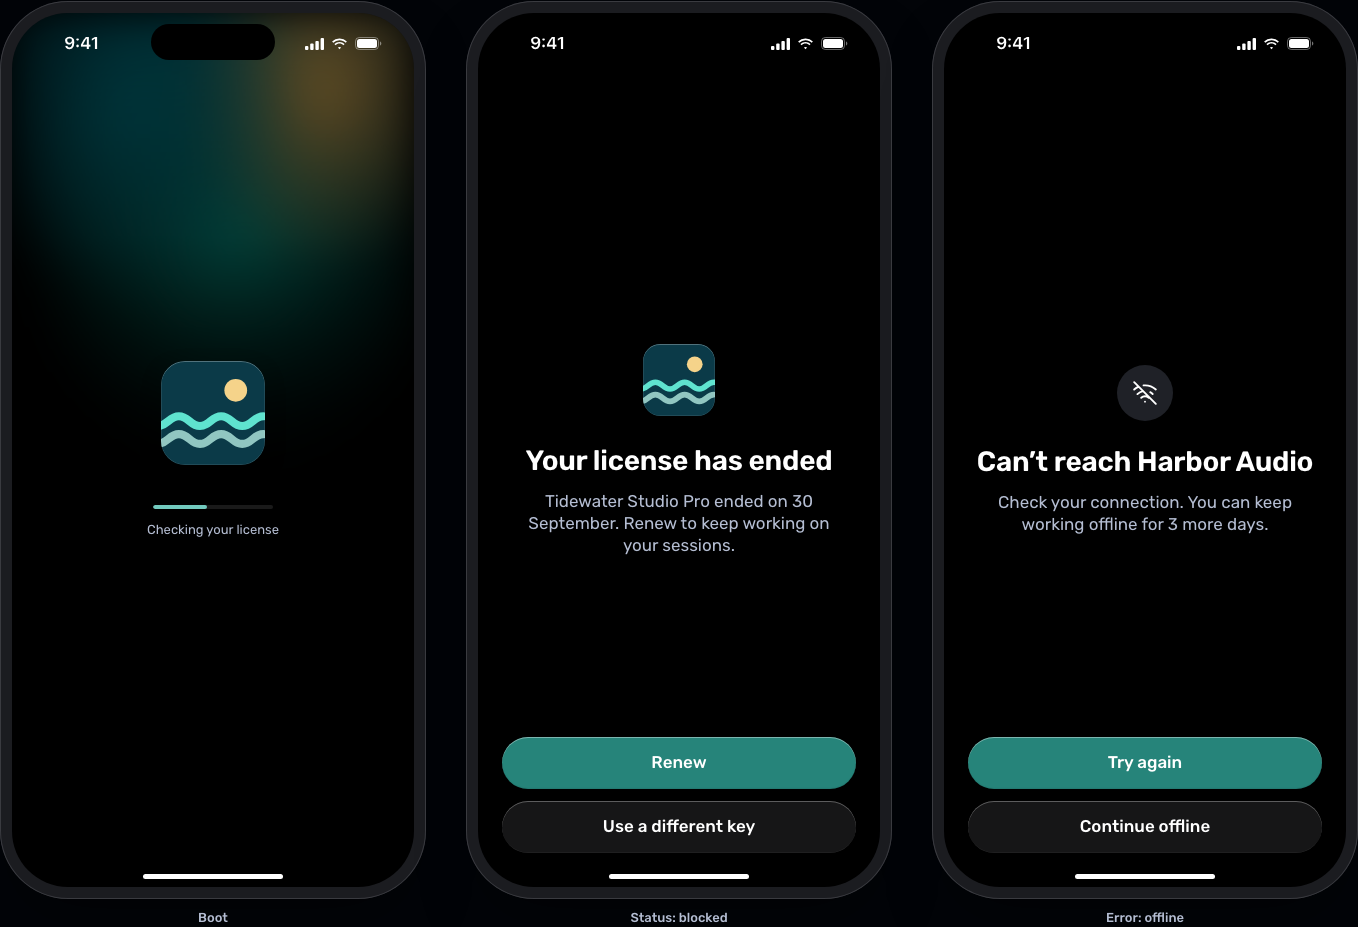
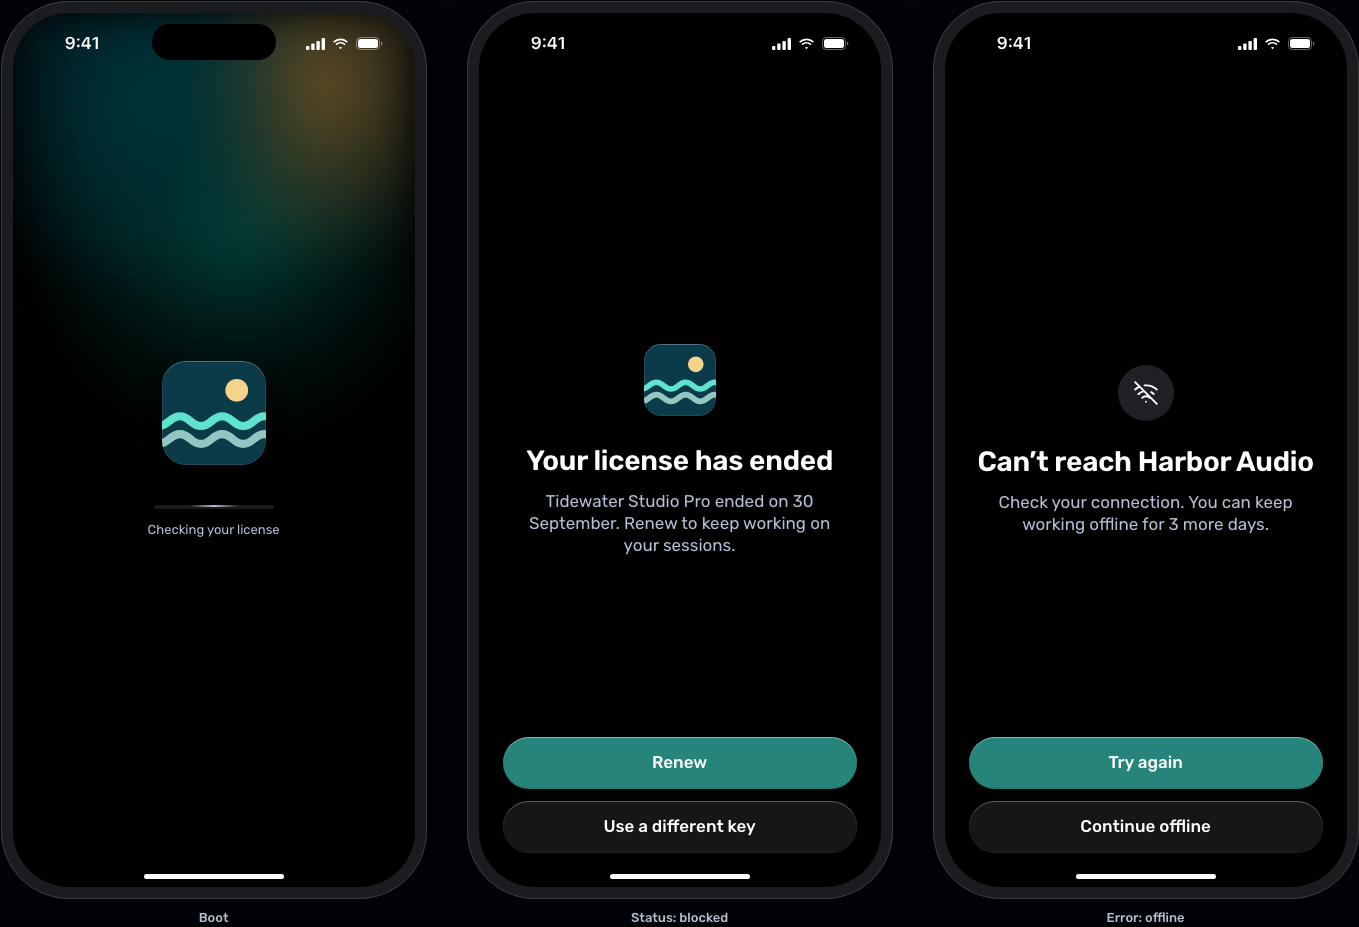
UK-59: ios inline activation and neutral boot indicator, progress note

diff --git a/docs/design/ui-kits/ios.html b/docs/design/ui-kits/ios.html
@@ -990,9 +990,103 @@
         </div>
       </figure>
 
+      <!-- 2a. Activate: inline, one form on the gate's screen -->
+      <figure>
+        <figcaption>
+          ios · activate · inline, one form, key parsed (the default: the gate
+          pushes it, no sheet). Built today
+        </figcaption>
+        <div class="shot" data-shot="activate-inline">
+          <div class="screen">
+            <div class="ambient"></div>
+            <div
+              style="
+                position: absolute;
+                inset: 62px 20px auto;
+                display: grid;
+                gap: 6px;
+              "
+            >
+              <div
+                style="
+                  display: flex;
+                  align-items: center;
+                  gap: 10px;
+                  margin-bottom: 18px;
+                "
+              >
+                <span
+                  class="glass on-plain circ"
+                  data-icon="chevronLeft"
+                  data-size="20"
+                  aria-label="Back"
+                ></span>
+                <span
+                  class="k-appicon"
+                  data-art="tidewater"
+                  data-size="28"
+                  style="border-radius: 7px"
+                ></span>
+                <span style="font-weight: 600">Tidewater Studio</span>
+              </div>
+              <h2 class="title-l" style="margin: 0 4px 6px">
+                Add your license
+              </h2>
+              <p
+                class="sub"
+                style="margin: 0 4px 22px; font-size: 15px; line-height: 20px"
+              >
+                You'll find it in your purchase email.
+              </p>
+              <div class="flabel">License key</div>
+              <div class="field">
+                <span class="mono"
+                  ><span class="k-key"
+                    ><span>pkey_tidewater_7Q2MXK9RV4TC8HJN</span
+                    ><span>3WPLDA</span></span
+                  ><span class="caret"></span
+                ></span>
+                <span class="paste"
+                  ><span data-icon="paste" data-size="15"></span>Paste</span
+                >
+              </div>
+              <div
+                style="
+                  display: flex;
+                  gap: 8px;
+                  align-items: center;
+                  margin: 12px 4px 0;
+                  font-size: 15px;
+                  color: var(--pk-text-muted);
+                "
+              >
+                <span
+                  style="color: var(--pk-success)"
+                  data-icon="badge"
+                  data-size="18"
+                ></span>
+                <span
+                  ><b style="font-weight: 600; color: var(--pk-text-strong)"
+                    >Tidewater Studio Pro</b
+                  >&#8201;·&#8201;Lifetime&#8201;·&#8201;3 devices</span
+                >
+              </div>
+            </div>
+            <div style="position: absolute; inset-inline: 20px; bottom: 352px">
+              <div class="glass prominent cap">Activate license</div>
+            </div>
+            <div class="kb"></div>
+          </div>
+        </div>
+      </figure>
+
       <!-- 2. Activate: sheet with keyboard -->
       <figure>
-        <figcaption>ios · activate (large-detent sheet, key parsed)</figcaption>
+        <figcaption>
+          ios · activate as a sheet, the labelled alternative when the host
+          presents it over its own screen (large detent, key parsed). Built
+          today
+        </figcaption>
         <div class="shot" data-shot="activate">
           <div class="screen" data-tpl="gate">
             <div class="dim"></div>
@@ -1028,7 +1122,7 @@
                 class="sub"
                 style="margin: 0 4px 22px; font-size: 15px; line-height: 20px"
               >
-                Your key is in the purchase email from Harbor Audio.
+                You'll find it in your purchase email.
               </p>
               <div class="flabel">License key</div>
               <div class="field">
@@ -1453,7 +1547,7 @@
                       line-height: 20px;
                     "
                   >
-                    Your key is in the purchase email from Harbor Audio.
+                    You'll find it in your purchase email.
                   </p>
                   <div class="flabel">License key</div>
                   <div class="field">
@@ -1690,7 +1784,8 @@
       <!-- 12. Boot, status and error -->
       <figure>
         <figcaption>
-          ios · boot, status (blocked) and error (offline)
+          ios · boot (a neutral 2 px shimmer after the grace, no part-filled
+          bar), status (blocked) and error (offline)
         </figcaption>
         <div class="row-shot" data-shot="states">
           <div>
@@ -1707,9 +1802,14 @@
                     ></div>
                     <div
                       class="k-progress"
-                      style="width: 120px; margin-top: 28px"
+                      style="
+                        width: 120px;
+                        margin-top: 28px;
+                        position: relative;
+                        --kit-accent-fg: var(--pk-text-muted);
+                      "
                     >
-                      <i style="width: 45%"></i>
+                      <span class="k-shimmer"></span>
                     </div>
                     <span class="foot-note">Checking your license</span>
                   </div>
@@ -1827,7 +1927,7 @@
           ),
         );
       const rows = ["qwertyuiop", "asdfghjkl", "zxcvbnm"];
-      document.getElementById("kb1").innerHTML =
+      const kbHtml =
         rows
           .map((r, i) => {
             let keys = [...r]
@@ -1839,6 +1939,7 @@
           })
           .join("") +
         `<div class="r"><span class="k w">123</span><span class="k w">☺</span><span class="k sp">space</span><span class="k go">go</span></div>`;
+      document.querySelectorAll(".kb").forEach((k) => (k.innerHTML = kbHtml));
       document.querySelectorAll(".sessions").forEach((sess) => {
         [
           "Harbor demo · 4 tracks",

diff --git a/docs/research/2026-09-29-godot-omniplatform/program/wp/UK-59-built-kit-boards-refresh.md b/docs/research/2026-09-29-godot-omniplatform/program/wp/UK-59-built-kit-boards-refresh.md
@@ -151,3 +151,15 @@ Still left: web shape rows 844x390, 640x360, 1180x820, 1920x1080 and the identit
 one-form activation and neutral boot indicator; apple.html iPad from the built SwiftUI renders; Android
 frames and the two compose mockups; Godot two tiers per frame; terminal 40/32-column frames; Built
 today / UK-11 target captions on the remaining boards.
+
+## Progress and continuation (2026-10-20, slice 3)
+
+Done (Built today unless noted; renders in docs/design/ui-kits/shots):
+
+- web.html: gate and sign-in code view in two panes at 1440 (identity panel holds the icon only, DL1); new shape rows 844x390, 640x360, 1180x820, 820x1180 (one column) and 1920x1080 for the gate, plus the code view at 844x390 and 1920x1080 (shapes follow elements/src/element.ts measure()); the refused key shows the catalog's core.activation.license-disabled title and message. A new catalog key (activate.keyRefused) was tried and reverted: a kit-copy state key needs a ui-matrix row, which is an all-kit corpus change owned by the kit builders.
+- terminal.html: gate refusal (exit 4) and revoked status (exit 1) at 40 and 32 columns, from the Node kit's narrow renders; strings.allow.json gains one entry for the wrapped fragments.
+- android.html: the Compose kit's own snapshots at phone landscape, small landscape, foldable and tablet for gate, sign-in, device limit and expired (the build shows no product icon on expired yet).
+- godot.html: two real renders of the Godot kit (gate, settings) as Built today; every drawn frame captioned UK-11 target; host-owns-pause note; the boot bar is a 2 px shimmer (DL7).
+- ios.html: inline one-form activation (the sheet is the labelled alternative); neutral boot shimmer; lede from the catalog (string debt shrank).
+
+Left: apple.html iPad from built SwiftUI renders (needs a simulator or Xcode; the committed Swift snapshots are phone-size only); Android states/settings and tablet portrait, compose mockups sdk.compose-activate and sdk.compose-sign-in; Godot built tier for the other nine frames (tools/ui_screenshots.gd stalled after gate and settings under load); iOS and Android frames drawn before this slice still lack a tier caption; the MOCKUP-mode UX review; ui:report.
